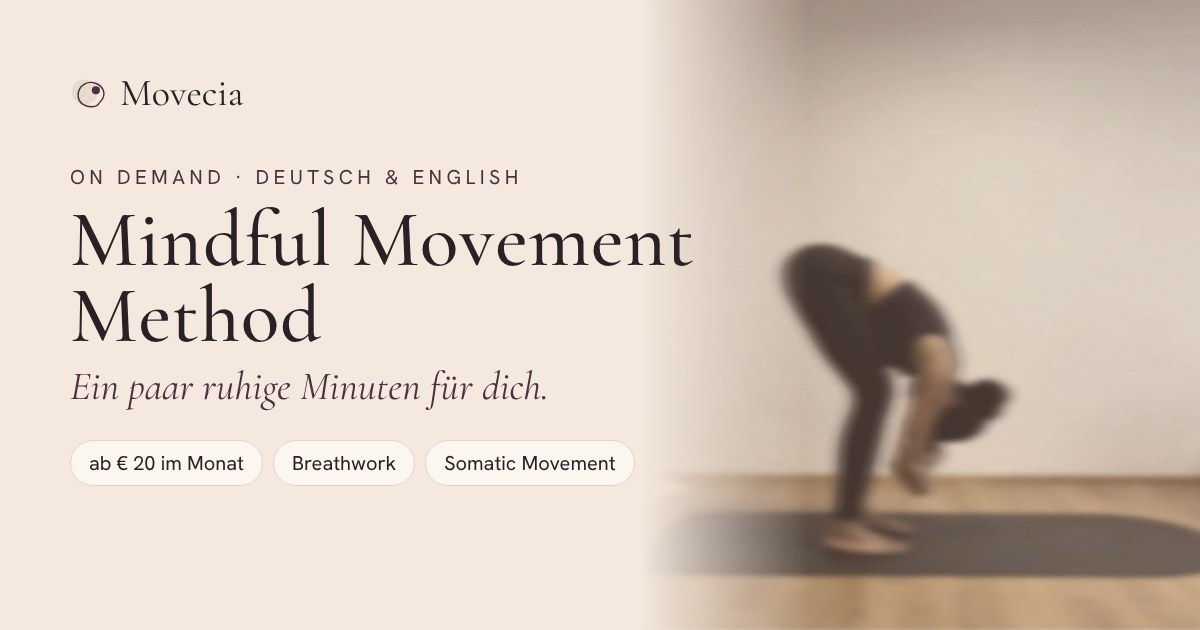
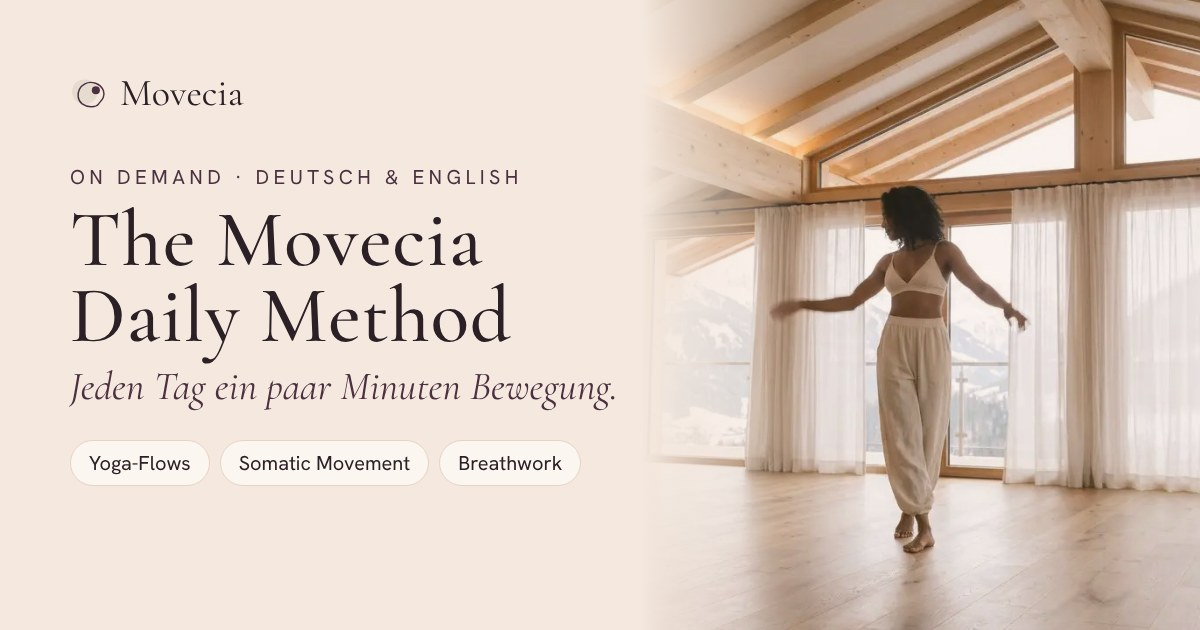
Movecia: Method heißt jetzt „The Movecia Daily Method“ – Jeden Tag ein paar Minuten Bewegung, on demand (DE/EN überall, OG-Bild neu)
Claude-Session: https://claude.ai/code/session_01NPiwcFDgKSZYax1XcyQiia

diff --git a/tools/movecia-dream/ad.html b/tools/movecia-dream/ad.html
@@ -51,8 +51,8 @@ const P=new URLSearchParams(location.search), p=P.get('p')||'unfold', f=P.get('f
 document.body.className=f+' '+p;
 const T={
  method:{img:{feed:'ev-method-karte.jpg',story:'ev-method-karte.jpg'},pos:'50% 30%',
-  de:{pill:'Start 1. Dezember',k:'Mindful Movement Method · on demand',h:'Ein paar ruhige <em>Minuten</em> für dich.',sub:'Jeden Tag, bei dir zu Hause, so wie du dich gerade fühlst.',rows:[['d','Early-Bird € 29 im Monat bis 1.12.'],['','danach € 39'],['','Flows · Somatic · Breathwork'],['','Deutsch & English']],cta:'Jetzt Mitglied werden',url:'moveciamovement.com/method',btn:'Link in Bio →'},
-  en:{pill:'Starts 1 December',k:'Mindful Movement Method · on demand',h:'A few quiet <em>minutes</em> for you.',sub:'Every day, at home, just the way you feel right now.',rows:[['d','Early bird € 29 a month until 1 Dec'],['','then € 39'],['','Flows · somatic · breathwork'],['','English & Deutsch']],cta:'Become a member',url:'moveciamovement.com/method',btn:'Link in bio →'}},
+  de:{pill:'Start 1. Dezember',k:'Movecia Daily Method · on demand',h:'Ein paar ruhige <em>Minuten</em> für dich.',sub:'Jeden Tag, bei dir zu Hause, so wie du dich gerade fühlst.',rows:[['d','Early-Bird € 29 im Monat bis 1.12.'],['','danach € 39'],['','Flows · Somatic · Breathwork'],['','Deutsch & English']],cta:'Jetzt Mitglied werden',url:'moveciamovement.com/method',btn:'Link in Bio →'},
+  en:{pill:'Starts 1 December',k:'Movecia Daily Method · on demand',h:'A few quiet <em>minutes</em> for you.',sub:'Every day, at home, just the way you feel right now.',rows:[['d','Early bird € 29 a month until 1 Dec'],['','then € 39'],['','Flows · somatic · breathwork'],['','English & Deutsch']],cta:'Become a member',url:'moveciamovement.com/method',btn:'Link in bio →'}},
  unfold:{img:{feed:'ev-unfold-karte.jpg',story:'ev-unfold.jpg'},pos:'50% 85%',
   de:{pill:'Nur 10 Plätze',k:'Unfold · The Mindful Becoming',h:'Drei Monate, um zu dir <em>zurückzukommen</em>.',sub:'Mit Bewegung, Ruhe im Kopf und Frauen an deiner Seite.',rows:[['d','Start 10. Jänner 2027'],['','wöchentlicher Live-Call'],['','2 Bewegungsvideos pro Woche'],['','Early-Bird € 450 bis 11.1.']],cta:'Jetzt Platz sichern',url:'moveciamovement.com/unfold',btn:'Link in Bio →'},
   en:{pill:'Only 10 spots',k:'Unfold · The Mindful Becoming',h:'Three months to come <em>back to yourself</em>.',sub:'With movement, a quieter mind and women by your side.',rows:[['d','Starts 10 January 2027'],['','weekly live call'],['','2 movement videos a week'],['','Early bird € 450 until 11 Jan']],cta:'Book your spot',url:'moveciamovement.com/unfold',btn:'Link in bio →'}},

diff --git a/wildhearts/index.html b/wildhearts/index.html
@@ -175,7 +175,7 @@ html[lang=de] .en,html[lang=en] .de{display:none!important}
     </a>
     <a class="btn" href="/method/">
       <span class="th"><img src="/img/movecia/fotos/ev-method-foto.jpg?v=3" alt="" width="116" height="116"></span>
-      <span class="tx"><b>Mindful Movement Method</b><small><span class="de">On demand ab 1. Dezember · Deutsch &amp; Englisch</span><span class="en">On demand from 1 December · in English &amp; German</span><span data-until="2026-12-01T23:59:59+01:00"><span class="de"> · Early-Bird € 29</span><span class="en"> · early bird € 29</span></span></small></span>
+      <span class="tx"><b>Movecia Daily Method</b><small><span class="de">On demand ab 1. Dezember · Deutsch &amp; Englisch</span><span class="en">On demand from 1 December · in English &amp; German</span><span data-until="2026-12-01T23:59:59+01:00"><span class="de"> · Early-Bird € 29</span><span class="en"> · early bird € 29</span></span></small></span>
       <span class="ar" aria-hidden="true">→</span>
     </a>
     <a class="btn" href="/natal/">
@@ -258,8 +258,8 @@ html[lang=de] .en,html[lang=en] .de{display:none!important}
         <span class="no" aria-hidden="true">3</span>
         <div class="card"><div class="pic"><img src="/img/movecia/fotos/ev-method-foto.jpg?v=3" alt="" width="600" height="300" loading="lazy"></div>
           <p class="kick"><span class="en">On demand · from 1 December · English &amp; German</span><span class="de">On demand · ab 1. Dezember · Deutsch &amp; Englisch</span></p>
-          <h3>Mindful Movement Method</h3>
-          <p class="note"><span class="en">a few quiet minutes for you, every day</span><span class="de">ein paar ruhige Minuten für dich, jeden Tag</span></p>
+          <h3>Movecia Daily Method</h3>
+          <p class="note"><span class="en">a few minutes of movement every day, on demand</span><span class="de">jeden Tag ein paar Minuten Bewegung, on demand</span></p>
           <button class="more-t" type="button" aria-expanded="false"><span class="en">Read more</span><span class="de">Mehr lesen</span></button>
           <div class="more">
           <ul class="en"><li>Your video library: flows, somatic movement, breathwork, meditation</li><li>For full days and tired days, 5 to 30 minutes</li><li>A new programme with a workbook on the 1st of every month</li></ul>

diff --git a/tools/og/og.html b/tools/og/og.html
@@ -21,6 +21,6 @@ const D={
  start:['art-reach.jpg','Mindful Movement · Yoga · Somatic','Movecia','Bewegung beginnt bei dir.',['online on demand','live','Paznaun, Tirol']],
  unfold:['reach.jpg','3 Monate Begleitung · live online','Unfold','The Mindful Becoming',['Start 10. Jänner','wöchentlicher Live-Call','2 Videos pro Woche']],
  academy:['ev-lunge.jpg','Movecia Academy · 550 Stunden · hybrid','The Mindful Becoming Teacher Training','Lernen, andere zu begleiten.',['inkl. 200 Std. Yoga','nur 14 Plätze','Start Nov. 2027']],
- method:['art-fold.jpg','On demand · Deutsch & English','Mindful Movement Method','Ein paar ruhige Minuten für dich.',['ab € 20 im Monat','Breathwork','Somatic Movement']]}[p];
+ method:['ev-method-foto.jpg','On demand · Deutsch & English','The Movecia<br>Daily Method','Jeden Tag ein paar Minuten Bewegung.',['Yoga-Flows','Somatic Movement','Breathwork']]}[p];
 document.body.innerHTML=`<div class="ph" style="background-image:url(../../img/movecia/fotos/${D[0]})"></div><div class="t"><div class="brand"><img src="../../img/movecia/movecia-zeichen-klein.svg"><span>Movecia</span></div><p class="k">${D[1]}</p><h1 style="${D[2].length>12?'font-size:80px':''}">${D[2]}</h1><p class="sub">${D[3]}</p><div class="f">${D[4].map(x=>'<span>'+x+'</span>').join('')}</div></div>`+(p==='academy'?'<img class="seal" src="../../img/movecia/academy-siegel-1024.png" alt="">':'');
 </script></body></html>

diff --git a/tools/earlybird/ad.html b/tools/earlybird/ad.html
@@ -47,7 +47,7 @@ if(pr==='method'){
  h=`<div class="ph" style="background-image:url(../../img/movecia/fotos/art-fold.jpg)"></div><div class="wrap">
  <div class="top"><div class="brand"><img src="../../img/movecia/movecia-zeichen-klein.svg"><span>Movecia</span></div><span class="pill">Early Bird</span></div>
  <div class="body"><p class="k">${T('On demand · Start 1. Dezember','On demand · opens 1 December')}</p>
- <h1>Mindful Movement Method</h1><p class="sub">${T('Ein paar ruhige Minuten für dich, jeden Tag.','A few quiet minutes for you, every day.')}</p>
+ <h1>Movecia Daily Method</h1><p class="sub">${T('Ein paar ruhige Minuten für dich, jeden Tag.','A few quiet minutes for you, every day.')}</p>
  <div class="deal"><div class="now">€ 29<small>${T('/ Monat','/ month')}</small></div>
  <div class="was">${T('statt <s>€ 39</s> im Monat.<br>Dein Preis bleibt, solange du dabei bist.','instead of <s>€ 39</s> a month.<br>Your price stays as long as you are a member.')}</div>
  <div class="till">${T('Nur bei Buchung bis 1. Dezember','Only when you book by 1 December')}</div></div>

diff --git a/wildhearts/terms/index.php b/wildhearts/terms/index.php
@@ -97,7 +97,7 @@ a{color:var(--wine)}
     <a class="go" href="/withdraw"><span class="en">Withdraw from the contract</span><span class="de">Vertrag widerrufen</span></a>
   </nav>
 
-  <h2 id="method"><span class="en">Movecia Mindful Movement Method (on demand)</span><span class="de">Movecia Mindful Movement Method (on demand)</span></h2>
+  <h2 id="method"><span class="en">Movecia Daily Method (on demand)</span><span class="de">Movecia Daily Method (on demand)</span></h2>
   <?php if ($mvc['eb_m']): ?><p><span class="en">Early bird for bookings until <?= mv_date($mvc['eb_m_end'], 'en') ?>:</span><span class="de">Early-Bird bei Buchung bis <?= mv_date($mvc['eb_m_end']) ?>:</span> <span class="price"><span class="en">monthly</span><span class="de">monatlich</span> <?= $eur($mvc['eb_m1']) ?></span><span class="price"><span class="en">3 months</span><span class="de">3 Monate</span> <?= $eur($mvc['eb_m3']) ?></span><span class="price"><span class="en">1 year</span><span class="de">1 Jahr</span> <?= $eur($mvc['eb_m12']) ?></span></p><?php endif; ?>
   <p><?php if ($mvc['eb_m']): ?><span class="en">From <?= mv_date($mvc['eb_m_end'] + 86400, 'en') ?>:</span><span class="de">Ab <?= mv_date($mvc['eb_m_end'] + 86400) ?>:</span> <?php endif; ?><span class="price"><span class="en">monthly</span><span class="de">monatlich</span> <?= $eur($mvc['r_m1']) ?></span><span class="price"><span class="en">3 months</span><span class="de">3 Monate</span> <?= $eur($mvc['r_m3']) ?></span><span class="price"><span class="en">1 year</span><span class="de">1 Jahr</span> <?= $eur($mvc['r_m12']) ?></span></p>
   <ul>
@@ -116,7 +116,7 @@ a{color:var(--wine)}
   <?php if ($mvc['eb_u']): ?><p><span class="en">Early bird for bookings until <?= mv_date($mvc['eb_u_end'], 'en') ?>:</span><span class="de">Early-Bird bei Buchung bis <?= mv_date($mvc['eb_u_end']) ?>:</span> <span class="price"><span class="en">in full</span><span class="de">auf einmal</span> <?= $eur($mvc['eb_u_once']) ?></span><span class="price"><?= (int)$mvc['u_n'] ?> × <?= $eur($mvc['eb_u_inst']) ?></span></p><?php endif; ?>
   <p><?php if ($mvc['eb_u']): ?><span class="en">From <?= mv_date($mvc['eb_u_end'] + 86400, 'en') ?>:</span><span class="de">Ab <?= mv_date($mvc['eb_u_end'] + 86400) ?>:</span> <?php endif; ?><span class="price"><span class="en">in full</span><span class="de">auf einmal</span> <?= $eur($mvc['r_u_once']) ?></span><span class="price"><?= (int)$mvc['u_n'] ?> × <?= $eur($mvc['r_u_inst']) ?></span></p>
   <ul>
-    <li><span class="en">Held in German. 13 weeks of online guidance from <?= mv_date(mv_ts($mvc['u_start']), 'en') ?> to <?= mv_date(mv_unfold_end(), 'en') ?>: a weekly live video call in German, two on-demand movement videos per week, workbooks, rituals and recordings. Unfold is a programme of its own and does not include the Mindful Movement Method membership. No more than <?= (int)$mvc['u_seats'] ?> participants.</span><span class="de">13 Wochen Online-Begleitung von <?= mv_date(mv_ts($mvc['u_start'])) ?> bis <?= mv_date(mv_unfold_end()) ?>: ein wöchentlicher Live-Videocall auf Deutsch, zwei On-Demand-Bewegungsvideos pro Woche, Workbooks, Rituale und Aufnahmen. Unfold ist ein eigenes Programm, die Mitgliedschaft der Mindful Movement Method ist nicht enthalten. Höchstens <?= (int)$mvc['u_seats'] ?> Teilnehmerinnen.</span></li>
+    <li><span class="en">Held in German. 13 weeks of online guidance from <?= mv_date(mv_ts($mvc['u_start']), 'en') ?> to <?= mv_date(mv_unfold_end(), 'en') ?>: a weekly live video call in German, two on-demand movement videos per week, workbooks, rituals and recordings. Unfold is a programme of its own and does not include the Movecia Daily Method membership. No more than <?= (int)$mvc['u_seats'] ?> participants.</span><span class="de">13 Wochen Online-Begleitung von <?= mv_date(mv_ts($mvc['u_start'])) ?> bis <?= mv_date(mv_unfold_end()) ?>: ein wöchentlicher Live-Videocall auf Deutsch, zwei On-Demand-Bewegungsvideos pro Woche, Workbooks, Rituale und Aufnahmen. Unfold ist ein eigenes Programm, die Mitgliedschaft der Movecia Daily Method ist nicht enthalten. Höchstens <?= (int)$mvc['u_seats'] ?> Teilnehmerinnen.</span></li>
     <li><span class="en">When booking you choose one of two options: <b>use everything right away</b> (you waive your right of withdrawal for the digital content, all videos and workbooks are open from the start) or <b>keep your right of withdrawal</b> (live calls and videos start as planned, the workbook downloads open once your withdrawal period has ended).</span><span class="de">Beim Buchen wählst du eine von zwei Möglichkeiten: <b>gleich alles nutzen</b> (du verzichtest auf dein Rücktrittsrecht für die digitalen Inhalte, alle Videos und Workbooks sind ab dem Start offen) oder <b>Rücktrittsrecht behalten</b> (Live-Calls und Videos starten wie geplant, die Workbook-Downloads öffnen sich nach dem Ende deiner Rücktrittsfrist).</span></li>
     <li><span class="en">You pay either in full or in <?= (int)$mvc['u_n'] ?> monthly instalments. The instalments are owed for the fixed term even if you stop taking part. Your choice about the right of withdrawal is made once when booking and covers all instalments.</span><span class="de">Du zahlst auf einmal oder in <?= (int)$mvc['u_n'] ?> monatlichen Raten. Die Raten bleiben für die feste Laufzeit geschuldet, auch wenn du nicht mehr teilnimmst. Deine Wahl zum Rücktrittsrecht triffst du einmal bei der Buchung, sie gilt für alle Raten.</span></li>
     <li><span class="en">Missed calls are recorded and available in your members area. The live calls are coaching and movement guidance, not therapy or medical treatment.</span><span class="de">Verpasste Calls werden aufgenommen und stehen in deinem Mitgliederbereich. Die Live-Calls sind Begleitung und Bewegungsanleitung, keine Therapie und keine medizinische Behandlung.</span></li>

diff --git a/api/method-lib.php b/api/method-lib.php
@@ -1,5 +1,5 @@
 <?php
-// Movecia Mindful Movement Method (On-Demand-Mitgliedschaft) und Unfold – The Mindful Becoming.
+// Movecia Daily Method (On-Demand-Mitgliedschaft) und Unfold – The Mindful Becoming.
 // Eigenes Modul (Vivien, 25.10.2026): Mitgliedschaften über Stripe, Konten, Bibliothek mit Monatsprogrammen,
 // Videos bei Bunny Stream, Fortschritt, Journal, Workbooks, Rechnungen im Movecia-Design.
 // Schlüssel (Stripe, Bunny, Postfach) liegen nur im Datenordner, nie im Repo.
@@ -591,7 +591,7 @@ function mv_send_confirm(PDO $pdo, array $m, array $r, bool $reminder = false): 
 {
     $en = ($r['lang'] ?? $m['lang']) === 'en';
     $first = forma_first_name((string)($r['name'] ?: $m['name']) ?: ($en ? 'friend' : 'meine Liebe'));
-    $title = $r['kind'] === 'unfold' ? 'Unfold – The Mindful Becoming' : 'Movecia Mindful Movement Method';
+    $title = $r['kind'] === 'unfold' ? 'Unfold – The Mindful Becoming' : 'Movecia Daily Method';
     $lines = $en ? [
         "Dear $first,",
         ($reminder ? 'a gentle reminder: ' : '') . "thank you for booking $title! Your payment has come through.",
@@ -929,7 +929,7 @@ function mv_checkout(PDO $pdo, array $in, bool $special = false, string $source 
         ->execute([$p['kind'], $plan, $email, $name, $lang, $p['kind'] === 'unfold' ? $callLang : '', $p['cents'], $first, $special ? 1 : 0, $tok, $digital, $live, $source, forma_stripe_test_mode() ? 1 : 0, date('c')]);
     $sid = (int)$pdo->lastInsertId();
     $site = mm_site();
-    $title = $p['kind'] === 'unfold' ? 'Unfold – The Mindful Becoming' : 'Movecia Mindful Movement Method';
+    $title = $p['kind'] === 'unfold' ? 'Unfold – The Mindful Becoming' : 'Movecia Daily Method';
     $sub = $p['kind'] === 'method' || $plan === 'u3';
     $vc = 0;
     if ($vrow) {
@@ -1169,7 +1169,7 @@ function mv_welcome(PDO $pdo, array $r): void
     $price = mv_eur((int)$r['first_cents']) . ($r['plan'] === 'u1' ? '' : ' ' . ($en ? $p['per_en'] : $p['per_de']));
     if ((int)$r['special'] === 1 && $r['plan'] !== 'u1') $price .= $en ? ' (first payment at the Gathering price, then ' . mv_eur((int)$r['amount_cents']) . ')' : ' (erste Zahlung zum Gathering-Preis, danach ' . mv_eur((int)$r['amount_cents']) . ')';
     $isU = $r['kind'] === 'unfold';
-    $title = $isU ? 'Unfold – The Mindful Becoming' : 'Movecia Mindful Movement Method';
+    $title = $isU ? 'Unfold – The Mindful Becoming' : 'Movecia Daily Method';
     $open = mv_open_at($r);
     $pre = $open > time();
     $call = $isU ? ($r['call_lang'] === 'en' ? $c['u_call_en'] . ($en ? ' (English)' : ' (Englisch)') : $c['u_call_de'] . ($en ? ' (German)' : ' (Deutsch)')) : '';
@@ -1218,7 +1218,7 @@ function mv_notify_viv(PDO $pdo, array $r): void
     $c = mv_cfg();
     $p = mv_plans()[$r['plan']];
     $isU = $r['kind'] === 'unfold';
-    $title = $isU ? 'Unfold – The Mindful Becoming' : 'Movecia Mindful Movement Method';
+    $title = $isU ? 'Unfold – The Mindful Becoming' : 'Movecia Daily Method';
     $open = mv_open_at($r);
     $pre = $open > time();
     $pfx = (int)$r['test'] === 1 ? '[TEST] ' : '';
@@ -1252,7 +1252,7 @@ function mv_open_mail(PDO $pdo, array $r): void
     $m = mv_member_ensure($pdo, (string)$r['email'], (string)$r['name'], (string)$r['lang']);
     $first = forma_first_name((string)$r['name'] ?: ($en ? 'friend' : 'meine Liebe'));
     $isU = $r['kind'] === 'unfold';
-    $title = $isU ? 'Unfold – The Mindful Becoming' : 'Movecia Mindful Movement Method';
+    $title = $isU ? 'Unfold – The Mindful Becoming' : 'Movecia Daily Method';
     $hasPw = $m['pass_hash'] !== '';
     $link = $hasPw ? mv_area() : mv_pw_link($pdo, $m, 24 * 14);
     $btn = $hasPw ? ($en ? 'Open my members area' : 'Zum Mitgliederbereich') : ($en ? 'Choose my password' : 'Passwort festlegen');
@@ -1317,7 +1317,7 @@ function mv_invoice_source(PDO $pdo, string $kind, int $payId): ?array
         $detail = '3-monatige Online-Begleitung ' . date('d.m.Y', mv_ts($c['u_start'])) . ' bis ' . date('d.m.Y', mv_unfold_end()) . ': wöchentliche Live-Calls per Video, Workbooks, Impuls-Videos, Bewegungsvideos' . ((int)$p['special'] && $p['plan'] === 'u1' ? ' · Gathering-Preis' : '');
         $service = date('d.m.Y', mv_ts($c['u_start']));
     } else {
-        $text = 'Movecia Mindful Movement Method · Mitgliedschaft ' . $pl['de'];
+        $text = 'Movecia Daily Method · Mitgliedschaft ' . $pl['de'];
         $detail = 'On-Demand-Videobibliothek (Movement Flows, Somatic Movement, Breathwork, Meditation), Monatsprogramme mit Workbooks' . $per;
         $service = date('d.m.Y', $from);
     }
@@ -1486,7 +1486,7 @@ function mv_month_run(PDO $pdo): void
             'Fang einfach mit dem ersten Video an. Ein kleiner Schritt reicht.',
         ];
         $pfx = (int)$s['test'] === 1 ? '[TEST] ' : '';
-        try { mv_send_member_mail($s, $pfx . ($en ? 'Your month ' . $mm['n'] . ' is open' : 'Dein Monat ' . $mm['n'] . ' ist offen'), $en ? 'something new for you ♡' : 'etwas Neues für dich ♡', 'Movecia Mindful Movement Method', $lines, mv_area(), $en ? 'Open my month' : 'Zu meinem Monat', ''); }
+        try { mv_send_member_mail($s, $pfx . ($en ? 'Your month ' . $mm['n'] . ' is open' : 'Dein Monat ' . $mm['n'] . ' ist offen'), $en ? 'something new for you ♡' : 'etwas Neues für dich ♡', 'Movecia Daily Method', $lines, mv_area(), $en ? 'Open my month' : 'Zu meinem Monat', ''); }
         catch (Throwable $e) { error_log('MV month mail: ' . $e->getMessage()); }
     }
 }

diff --git a/wildhearts/gathering/skripte-de.inc.php b/wildhearts/gathering/skripte-de.inc.php
@@ -634,7 +634,7 @@ Unser nächstes Gathering kommt bald, und natürlich ist es kostenlos. Das Datum
 
 Und für die Frauen, die tiefer gehen möchten, gibt es Unfold, meine dreimonatige Begleitung ab dem 10. Jänner: ein wöchentlicher Live-Call, zwei Bewegungsvideos pro Woche und Workbooks für deinen Mental Load, deinen Selbstwert und deine Ideen. Es gibt nur zehn Plätze.
 
-Und jetzt verrate ich euch noch etwas, weil ihr heute Abend da seid: Meine Mindful Movement Method öffnet am 1. Dezember. Yoga-Flows, somatische Bewegung, Atemarbeit und Meditation zum Abrufen, von fünf bis dreißig Minuten, für volle und für müde Tage, und jeden Monat ein neues Programm mit Workbook. Genau rechtzeitig zum neuen Jahr, damit du mit deinen Vorsätzen nicht allein bist.
+Und jetzt verrate ich euch noch etwas, weil ihr heute Abend da seid: Meine Movecia Daily Method öffnet am 1. Dezember. Yoga-Flows, somatische Bewegung, Atemarbeit und Meditation zum Abrufen, von fünf bis dreißig Minuten, für volle und für müde Tage, und jeden Monat ein neues Programm mit Workbook. Genau rechtzeitig zum neuen Jahr, damit du mit deinen Vorsätzen nicht allein bist.
 
 Heute Abend kannst du dir deinen Platz schon zum Gathering-Preis sichern, deinen ersten Monat für 19 statt 29 Euro. Heute wird nichts abgebucht. Die erste Zahlung kommt erst am 1. Dezember, wenn die Method öffnet.
 
@@ -755,7 +755,7 @@ Dann nimm dir eine Minute. Vier Runden Box Breathing dauern ungefähr eine Minut
 
 Wenn sich dieser Morgen gut angefühlt hat, komm beim nächsten Mal wieder. Dann atmen wir wieder gemeinsam.
 
-Und wenn du dir für jeden Tag ein bisschen Unterstützung wünschst: Meine Reset Routine für müde Tage gibt es kostenlos auf moveciamovement.com, und meine Mindful Movement Method öffnet am 1. Dezember, mit kurzen Morgeneinheiten wie dieser, wann immer es dir passt. Du kannst dir deinen Platz schon jetzt sichern.
+Und wenn du dir für jeden Tag ein bisschen Unterstützung wünschst: Meine Reset Routine für müde Tage gibt es kostenlos auf moveciamovement.com, und meine Movecia Daily Method öffnet am 1. Dezember, mit kurzen Morgeneinheiten wie dieser, wann immer es dir passt. Du kannst dir deinen Platz schon jetzt sichern.
 
 [Wenn du heute Morgen ein Angebot einblendest, dann jetzt und sag dazu:] Ich habe dir etwas eingeblendet. Schau es dir an, wann immer es dir passt.
 
@@ -926,7 +926,7 @@ Genau das sollen diese Morgen für dich sein. Ein Ort, an dem jemand auf dich wa
 
 Wenn du immer wieder zu Morgen wie diesem zurückkommen möchtest, sei beim nächsten Gathering dabei. Die Gatherings sind kostenlos, und das Datum findest du immer auf moveciamovement.com.
 
-Und wenn du das als Teil deines Lebens möchtest, mit Atemarbeit, kurzen Bewegungseinheiten und jeden Monat einem neuen Programm, dann öffnet meine Mindful Movement Method am 1. Dezember, und du kannst dir deinen Platz schon jetzt sichern.
+Und wenn du das als Teil deines Lebens möchtest, mit Atemarbeit, kurzen Bewegungseinheiten und jeden Monat einem neuen Programm, dann öffnet meine Movecia Daily Method am 1. Dezember, und du kannst dir deinen Platz schon jetzt sichern.
 
 [Wenn du heute Morgen ein Angebot einblendest, dann jetzt und sag dazu:] Ich habe dir jetzt etwas eingeblendet. Schau es dir in Ruhe an.
 
@@ -1037,7 +1037,7 @@ Es ist schön, etwas zu wählen, dessen Duft du magst. Rosmarin, Lavendel, ein w
 
 Wenn dir der heutige Abend geholfen hat, deinen Tag abzuschließen, komm beim nächsten Mal wieder. Dann machen wir das wieder gemeinsam.
 
-Und wenn du dir solche Rituale jeden Monat wünschst, für die Morgen, für die Abende und für die schweren Tage dazwischen, dann öffnet meine Mindful Movement Method am 1. Dezember, und du kannst dir deinen Platz schon jetzt sichern.
+Und wenn du dir solche Rituale jeden Monat wünschst, für die Morgen, für die Abende und für die schweren Tage dazwischen, dann öffnet meine Movecia Daily Method am 1. Dezember, und du kannst dir deinen Platz schon jetzt sichern.
 
 [Wenn du heute Abend ein Angebot einblendest, dann jetzt und sag dazu:] Ich habe dir etwas eingeblendet. Lies es in Ruhe, es eilt nicht.
 
@@ -1226,7 +1226,7 @@ Und wenn du noch einmal aufstehen musst, roll dich zuerst auf die Seite, bleib d
 
 Wenn dir der heutige Abend gutgetan hat, komm zum nächsten Gathering. Die Gatherings sind kostenlos, und das Datum findest du auf moveciamovement.com.
 
-Und wenn du solche Abende als Teil deines Lebens möchtest, mit tiefer Ruhe, Atemarbeit und sanfter Bewegung, immer dann, wenn du sie brauchst, dann öffnet meine Mindful Movement Method am 1. Dezember, und du kannst dir deinen Platz schon jetzt sichern.
+Und wenn du solche Abende als Teil deines Lebens möchtest, mit tiefer Ruhe, Atemarbeit und sanfter Bewegung, immer dann, wenn du sie brauchst, dann öffnet meine Movecia Daily Method am 1. Dezember, und du kannst dir deinen Platz schon jetzt sichern.
 
 [Wenn du heute Abend ein Angebot einblendest, dann jetzt und sag dazu:] Ich habe dir etwas eingeblendet. Schau es dir morgen an, wenn du ausgeruht bist. Es eilt nicht.
 

diff --git a/wildhearts/method/index.php b/wildhearts/method/index.php
@@ -1,5 +1,5 @@
 <?php
-// moveciamovement.com/method – Verkaufsseite der Movecia Mindful Movement Method (On-Demand-Mitgliedschaft).
+// moveciamovement.com/method – Verkaufsseite der Movecia Daily Method (On-Demand-Mitgliedschaft).
 // Buchung direkt hier (Stripe-Abo über api/method.php). Vor dem Start: Karte hinterlegen, erste Abbuchung am Starttag.
 declare(strict_types=1);
 require dirname(__DIR__, 2) . '/api/method-lib.php';
@@ -16,10 +16,10 @@ $pre = !mv_launched();
 $site = mm_site();
 $eb = $c['eb_m'];
 $ebEnd = $c['eb_m_end'];
-$prod = ['@context' => 'https://schema.org', '@type' => 'Product', 'name' => 'Movecia Mindful Movement Method', 'brand' => ['@type' => 'Brand', 'name' => 'Movecia'], 'image' => $site . '/img/movecia/og-method.jpg',
+$prod = ['@context' => 'https://schema.org', '@type' => 'Product', 'name' => 'Movecia Daily Method', 'brand' => ['@type' => 'Brand', 'name' => 'Movecia'], 'image' => $site . '/img/movecia/og-method.jpg',
     'description' => 'On-Demand-Mitgliedschaft mit Videos für Mindful Movement, Yoga-Flows, Somatic Movement, Breathwork und Meditation, jeden Monat ein neues Programm mit Workbook. Auf Deutsch und Englisch.',
     'offers' => array_map(fn($k, $n) => ['@type' => 'Offer', 'name' => $n, 'price' => number_format($c[$k] / 100, 2, '.', ''), 'priceCurrency' => 'EUR', 'availability' => 'https://schema.org/InStock', 'url' => $site . '/method/#buchen'] + ($eb ? ['priceValidUntil' => date('Y-m-d', $ebEnd)] : []), ['m1', 'm3', 'm12'], ['Monatlich', '3 Monate', '1 Jahr'])];
-mvl_head('Mindful Movement Method · Online Yoga, Somatic Movement & Breathwork on demand | Movecia', 'Online-Mitgliedschaft mit Vivien Malonga: Yoga-Flows, Somatic Movement, Breathwork und Meditation on demand, 5–30 Minuten, für volle und müde Tage. Jeden Monat ein neues Programm mit Workbook. ' . ($eb ? 'Early-Bird bis ' . mv_date($ebEnd) . ': € ' . round($c['m1'] / 100) . ' statt € ' . round($c['r_m1'] / 100) . ' im Monat.' : 'Ab € ' . round($c['m12'] / 1200) . ' im Monat.'), $site . '/method/', '/img/movecia/og-method.jpg', '', [$prod]);
+mvl_head('Movecia Daily Method · Online Yoga, Somatic Movement & Breathwork on demand | Movecia', 'Online-Mitgliedschaft mit Vivien Malonga: Yoga-Flows, Somatic Movement, Breathwork und Meditation on demand, 5–30 Minuten, für volle und müde Tage. Jeden Monat ein neues Programm mit Workbook. ' . ($eb ? 'Early-Bird bis ' . mv_date($ebEnd) . ': € ' . round($c['m1'] / 100) . ' statt € ' . round($c['r_m1'] / 100) . ' im Monat.' : 'Ab € ' . round($c['m12'] / 1200) . ' im Monat.'), $site . '/method/', '/img/movecia/og-method.jpg', '', [$prod]);
 ?>
 <body>
 <?php mvl_top('method'); ?>
@@ -28,8 +28,8 @@ mvl_head('Mindful Movement Method · Online Yoga, Somatic Movement & Breathwork 
   <?= mv_waves(true, 'pb-desk') ?>
   <div>
     <p class="k"><span class="de">On demand · Deutsch &amp; Englisch</span><span class="en">On demand · English &amp; German</span></p>
-    <h1><span class="de">Mindful<br><em>Movement</em> Method</span><span class="en">Mindful<br><em>Movement</em> Method</span></h1>
-    <p class="sub"><span class="de">Ein paar ruhige Minuten für dich, jeden Tag.</span><span class="en">A few quiet minutes for you, every day.</span></p>
+    <h1><span class="de">The Movecia<br><em>Daily</em> Method</span><span class="en">The Movecia<br><em>Daily</em> Method</span></h1>
+    <p class="sub"><span class="de">Jeden Tag ein paar Minuten Bewegung, on demand.</span><span class="en">A few minutes of movement every day, on demand.</span></p>
     <p class="lead"><span class="de">Deine Videobibliothek für zu Hause: sanfte Flows, Somatic Movement, Breathwork, Meditation und Kraft ohne Erschöpfung. Du wählst nach Zeit und Tagesform, und jeden Monat kommt ein neues Programm mit Workbook dazu.</span><span class="en">Your video library at home: gentle flows, somatic movement, breathwork, meditation and strength without exhaustion. You choose by time and how you feel, and a new programme with a workbook arrives every month.</span></p>
     <div class="cta"><a class="btn" href="#buchen"><span class="de">Mitglied werden</span><span class="en">Become a member</span> →</a><a class="btn line" href="#inhalt"><span class="de">Was dich erwartet</span><span class="en">What's inside</span></a></div>
     <?php if ($pre): ?><div class="facts"><span><span class="de">Start am <?= mv_date($launch) ?></span><span class="en">Opens on <?= mv_date($launch, 'en') ?></span></span><span><span class="de">jetzt buchen, bezahlt wird erst ab dem Start</span><span class="en">book now, pay once it opens</span></span></div><?php endif; ?>

diff --git a/wildhearts/gathering/skripte.inc.php b/wildhearts/gathering/skripte.inc.php
@@ -100,7 +100,7 @@ Then take one minute. Four rounds of box breathing take about one minute. That\'
 
 If this morning felt good, come back next time. We\'ll breathe together again.
 
-And if you want a little support for every day, my Reset Routine for Tired Days is free on moveciamovement.com, and my Mindful Movement Method opens on the 1st of December, with short morning sessions just like this one, whenever you have time. You can already book your place.
+And if you want a little support for every day, my Reset Routine for Tired Days is free on moveciamovement.com, and my Movecia Daily Method opens on the 1st of December, with short morning sessions just like this one, whenever you have time. You can already book your place.
 
 [If you show an offer this morning: show it now, and say:] I\'ve put something on your screen for you. Have a look whenever it suits you.
 
@@ -271,7 +271,7 @@ That\'s what I want these mornings to be for you. A place where someone is waiti
 
 If you\'d like to keep coming back to mornings like this, join the next Gathering. They\'re free, and you\'ll always find the date on moveciamovement.com.
 
-And if you want this as part of your life, with breathwork, short movement sessions and a new programme every month, my Mindful Movement Method opens on the 1st of December, and you can already book your place.
+And if you want this as part of your life, with breathwork, short movement sessions and a new programme every month, my Movecia Daily Method opens on the 1st of December, and you can already book your place.
 
 [If you show an offer this morning: show it now, and say:] I\'ve put something on your screen for you now. Take a look in your own time.
 
@@ -382,7 +382,7 @@ It\'s lovely to choose something you like the smell of. Rosemary, lavender, a li
 
 If tonight helped you close your day, come back next time. We\'ll do this together again.
 
-And if you\'d like rituals like this every month, for the mornings, the evenings and the hard days in between, my Mindful Movement Method opens on the 1st of December, and you can already book your place.
+And if you\'d like rituals like this every month, for the mornings, the evenings and the hard days in between, my Movecia Daily Method opens on the 1st of December, and you can already book your place.
 
 [If you show an offer tonight: show it now, and say:] I\'ve put something on your screen for you. Read it whenever you\'re ready, there\'s no rush.
 
@@ -571,7 +571,7 @@ And if you need to get up again, roll onto your side first, rest there for a bre
 
 If tonight was good for you, come back to the next Gathering. They\'re free, and you\'ll find the date on moveciamovement.com.
 
-And if you want evenings like this as part of your life, with deep rest, breathwork and gentle movement whenever you need it, my Mindful Movement Method opens on the 1st of December, and you can already book your place.
+And if you want evenings like this as part of your life, with deep rest, breathwork and gentle movement whenever you need it, my Movecia Daily Method opens on the 1st of December, and you can already book your place.
 
 [If you show an offer tonight: show it now, and say:] I\'ve put something on your screen. Look at it tomorrow, when you\'re rested. There\'s no rush.
 
@@ -702,7 +702,7 @@ Our next Gathering is coming up soon, and of course it\'s free. You\'ll always f
 
 And for the women who want to go deeper, there is Unfold, my three months of guidance from the 10th of January: a weekly live call, two movement videos a week and workbooks for your mental load, your worth and your ideas. There are only ten places.
 
-And now a little secret, because you are here tonight: my Mindful Movement Method opens on the 1st of December. Yoga flows, somatic movement, breathwork and meditation on demand, from five to thirty minutes, for full days and for tired days, and every month a new programme with a workbook. Just in time for the new year, so you\'re not on your own with your New Year\'s intentions.
+And now a little secret, because you are here tonight: my Movecia Daily Method opens on the 1st of December. Yoga flows, somatic movement, breathwork and meditation on demand, from five to thirty minutes, for full days and for tired days, and every month a new programme with a workbook. Just in time for the new year, so you\'re not on your own with your New Year\'s intentions.
 
 Tonight you can already book your place at the Gathering price, your first month for 19 euros instead of 29. Nothing is charged today. Your first payment is only taken on the 1st of December, when the Method opens.
 

diff --git a/wildhearts/gewinnspiel/index.php b/wildhearts/gewinnspiel/index.php
@@ -19,12 +19,12 @@ $days = max(0, (int)ceil(($end - time()) / 86400));
 <meta charset="utf-8">
 <meta name="viewport" content="width=device-width, initial-scale=1, viewport-fit=cover">
 <title>Weihnachts-Gewinnspiel · Movecia</title>
-<meta name="description" content="Gewinne Zeit für dich: 3 Monate The Mindful Movement Method oder 2 Online-Einheiten Prä- oder Postnatal Training mit Vivien. Mitmachen bis 20. Dezember.">
+<meta name="description" content="Gewinne Zeit für dich: 3 Monate The Movecia Daily Method oder 2 Online-Einheiten Prä- oder Postnatal Training mit Vivien. Mitmachen bis 20. Dezember.">
 <meta name="robots" content="noindex, follow">
 <link rel="canonical" href="https://moveciamovement.com/gewinnspiel/">
 <meta name="theme-color" content="#F5F1EB">
 <meta property="og:title" content="Weihnachts-Gewinnspiel · Movecia">
-<meta property="og:description" content="Gewinne 3 Monate The Mindful Movement Method oder 2 Online-Einheiten Prä- oder Postnatal Training.">
+<meta property="og:description" content="Gewinne 3 Monate The Movecia Daily Method oder 2 Online-Einheiten Prä- oder Postnatal Training.">
 <meta property="og:image" content="https://moveciamovement.com/img/movecia/og-start.jpg">
 <link rel="icon" href="/img/movecia/movecia-favicon-64.png">
 <link rel="apple-touch-icon" href="/img/movecia/movecia-app-180.png">
@@ -117,7 +117,7 @@ details.rules ul{margin:.8rem 0 0;padding-left:1.1rem;font-size:.92rem;color:var
     <div class="pz a">
       <div class="ph"><img src="/img/movecia/fotos/ev-method-foto.jpg?v=10" alt="" width="640" height="400" loading="lazy"></div>
       <small>Online · für zu Hause</small>
-      <h3>3 Monate The Mindful Movement Method</h3>
+      <h3>3 Monate The Movecia Daily Method</h3>
       <p>Meine Videobibliothek: sanfte Flows für volle Tage, kurze Einheiten für müde Tage, Atem und Meditation, Monat für Monat in deinem Tempo.</p>
     </div>
     <p class="or">oder</p>
@@ -163,7 +163,7 @@ details.rules ul{margin:.8rem 0 0;padding-left:1.1rem;font-size:.92rem;color:var
     <ul>
       <li>Veranstalterin ist Vivien Malonga, Movecia (Kontakt und Impressum unter <a href="/terms/#impressum">moveciamovement.com/terms</a>).</li>
       <li>Teilnahme kostenlos und ohne Kauf, ab 18 Jahren, nur einmal pro Person und E-Mail-Adresse. Mitmachen kannst du bis 20. Dezember 2026 um 23:59 Uhr; deine Teilnahme zählt, sobald du sie per E-Mail bestätigt hast.</li>
-      <li>Gewinn nach Wahl der Gewinnerin: 3 Monate Zugang zu The Mindful Movement Method (ohne automatische Verlängerung) oder 2 Online-Einheiten Prä- oder Postnatal Training 1:1 per Video (einzulösen bis 30. April 2027, nach Absprache mit Ärztin oder Hebamme). Der Gewinn kann nicht in bar ausgezahlt oder getauscht werden.</li>
+      <li>Gewinn nach Wahl der Gewinnerin: 3 Monate Zugang zu The Movecia Daily Method (ohne automatische Verlängerung) oder 2 Online-Einheiten Prä- oder Postnatal Training 1:1 per Video (einzulösen bis 30. April 2027, nach Absprache mit Ärztin oder Hebamme). Der Gewinn kann nicht in bar ausgezahlt oder getauscht werden.</li>
       <li>Die Gewinnerin wird am 21. Dezember 2026 per Zufall aus allen bestätigten Teilnahmen gezogen und per E-Mail benachrichtigt; ihr Vorname kann in der Instagram-Story von @moveciamovement genannt werden. Meldet sie sich nicht innerhalb von 7 Tagen, lose ich neu aus. Ich frage nie nach Bankdaten oder Passwörtern.</li>
       <li>Deine Angaben (Vorname, E-Mail, Wunschgewinn) werden nur für das Gewinnspiel verwendet und spätestens am 31. Jänner 2027 gelöscht, außer du hast dich zusätzlich freiwillig für die Post angemeldet.</li>
       <li>Dieses Gewinnspiel steht in keiner Verbindung zu Instagram oder Meta und wird von Instagram weder gesponsert noch unterstützt oder organisiert.</li>

diff --git a/wildhearts/mitglieder/index.php b/wildhearts/mitglieder/index.php
@@ -1,5 +1,5 @@
 <?php
-// moveciamovement.com/mitglieder/ – Mitgliederbereich Movecia Mindful Movement Method + Unfold (Vivien, 25.10.2026)
+// moveciamovement.com/mitglieder/ – Mitgliederbereich Movecia Daily Method + Unfold (Vivien, 25.10.2026)
 // Anmeldung mit E-Mail + Passwort, Bibliothek mit Monatsprogrammen, Filter nach Dauer/Energie/Art, sanfter Fortschritt,
 // privates Journal, Workbooks, Unfold-Bereich mit Live-Calls, Konto mit Kündigung. Deutsch und Englisch.
 // ?demo=1 zeigt eine Beispielansicht ohne Konto (für Vivien und Screenshots).
@@ -370,7 +370,7 @@ mv_head($L('Mitgliederbereich', 'Members area'), $lang);
     <p class="k"><?= $h($hello) ?>, <?= $h($first) ?></p>
     <h1 class="h"><?= $L('Schön, dass du da bist.', 'So lovely to have you here.') ?></h1>
     <p class="mut lead"><?= $L('Gerade bereite ich noch alles für dich vor. Dein Zugang schaltet sich am ', 'I am still preparing everything for you. Your access unlocks on ') . '<strong>' . $h(mv_date($oa, $lang)) . '</strong>' . $L(' frei, dann bekommst du eine E-Mail und alles ist für dich offen.', '. You will get an email that day, and everything will be open for you.') ?></p>
-    <ul class="mut" style="margin-top:1rem;padding-left:1.1rem"><?php foreach ($acc['pending'] as $ps): ?><li><?= $ps['kind'] === 'unfold' ? 'Unfold – The Mindful Becoming' : 'Mindful Movement Method' ?> · <?= $L('Start', 'Start') ?> <?= $h(mv_date(mv_open_at($ps), $lang)) ?> · <?= $L('Rücktritt möglich bis', 'You can withdraw until') ?> <?= $h(mv_date(mv_withdraw_until($ps), $lang)) ?></li><?php endforeach; ?></ul>
+    <ul class="mut" style="margin-top:1rem;padding-left:1.1rem"><?php foreach ($acc['pending'] as $ps): ?><li><?= $ps['kind'] === 'unfold' ? 'Unfold – The Mindful Becoming' : 'Movecia Daily Method' ?> · <?= $L('Start', 'Start') ?> <?= $h(mv_date(mv_open_at($ps), $lang)) ?> · <?= $L('Rücktritt möglich bis', 'You can withdraw until') ?> <?= $h(mv_date(mv_withdraw_until($ps), $lang)) ?></li><?php endforeach; ?></ul>
   </div>
   <div class="soon card"><p class="k"><?= $L('Dein Start', 'Your start') ?></p><h3><?= $h(mv_date($oa, $lang)) ?></h3><p class="count" data-t="<?= $oa ?>"></p></div></section>
 
@@ -442,7 +442,7 @@ mv_head($L('Mitgliederbereich', 'Members area'), $lang);
     <?php if (isset($_GET['fehler'])): ?><p class="err"><?= $L('Das hat gerade nicht geklappt. Bitte versuch es noch einmal oder schreib mir.', 'Something went wrong just now. Please try again or write to me.') ?></p><?php endif; ?>
     <div class="kgrid">
     <?php if ($s): $pl = mv_plans()[$s['plan']] ?? null; $end = max((int)$s['period_end'], (int)$s['bill_start']); ?>
-      <div class="card"><h3>Mindful Movement Method</h3>
+      <div class="card"><h3>Movecia Daily Method</h3>
         <p><?= $h($pl ? ($lang === 'en' ? $pl['en'] : $pl['de']) : '') ?> · <?= mv_eur((int)$s['amount_cents']) ?> <?= $h($pl ? ($lang === 'en' ? $pl['per_en'] : $pl['per_de']) : '') ?></p>
         <?php if ((int)$s['bill_start'] > time()): ?><p class="mut"><?= $L('Start und erste Zahlung am', 'Start and first payment on') ?> <?= $h(mv_date((int)$s['bill_start'], $lang)) ?></p>
         <?php elseif ((int)$s['cancel_end']): ?><p class="mut"><?= $L('Gekündigt, Zugang bis', 'Cancelled, access until') ?> <?= $h(mv_date((int)$s['cancel_end'], $lang)) ?></p>

diff --git a/api/presse.inc.php b/api/presse.inc.php
@@ -42,12 +42,12 @@ function presse_release(string $brand): array
         'title' => 'Bewegung beginnt bei dir: Paznaunerin startet Online-Programm für Frauen mit vollem Kopf',
         'paras' => [
             'Mathon, Oktober 2026. Familie, Arbeit, der ganze unsichtbare Mental Load: Viele Frauen kommen im Alltag selbst zu kurz. Die Bewegungstrainerin Vivien Malonga aus Mathon im Paznaun bringt deshalb mit Movecia ihr Wissen aus Yoga, Bodyweight-Training, Somatic Movement und Breathwork online, damit Frauen zu Hause in wenigen Minuten am Tag wieder bei sich ankommen.',
-            'Am 1. Dezember startet die Mindful Movement Method, eine Online-Mitgliedschaft mit Videos für müde und für volle Tage. Jede Teilnehmerin beginnt bei Monat 1 und bekommt jeden Monat ein neues Programm mit Workbook, auf Deutsch und Englisch. Am 10. Jänner 2027 beginnt außerdem „Unfold – The Mindful Becoming“, eine dreimonatige Begleitung in kleiner Runde mit höchstens zehn Frauen, wöchentlichem Live-Call, Bewegungsvideos und Workbooks zu Mental Load und Organisation.',
+            'Am 1. Dezember startet die Movecia Daily Method, eine Online-Mitgliedschaft mit Videos für müde und für volle Tage. Jede Teilnehmerin beginnt bei Monat 1 und bekommt jeden Monat ein neues Programm mit Workbook, auf Deutsch und Englisch. Am 10. Jänner 2027 beginnt außerdem „Unfold – The Mindful Becoming“, eine dreimonatige Begleitung in kleiner Runde mit höchstens zehn Frauen, wöchentlichem Live-Call, Bewegungsvideos und Workbooks zu Mental Load und Organisation.',
             'Vor Ort im Studio und online bietet Vivien Malonga zudem Prä- und Postnatal-Training an, also Begleitung durch die Schwangerschaft und die Rückbildung danach.',
             '„Ich habe selbst vier Kinder und weiß, wie schnell man sich vergisst. Bewegung muss nicht anstrengend sein, sie darf sich gut anfühlen“, sagt die Gründerin.',
         ],
         'facts' => [
-            'Mindful Movement Method: Start 1. Dezember 2026, Early-Bird bis 1. Dezember € 29 statt € 39 im Monat',
+            'Movecia Daily Method: Start 1. Dezember 2026, Early-Bird bis 1. Dezember € 29 statt € 39 im Monat',
             'Unfold: Start 10. Jänner 2027, 10 Plätze, Early-Bird bis 20. Dezember € 450, danach € 550',
             'Prä- und Postnatal-Training: im Studio in Mathon oder online',
             'Infos und Buchung: www.moveciamovement.com · Kontakt: Vivien Malonga, hello@moveciamovement.com, Instagram @movementwithviv',
